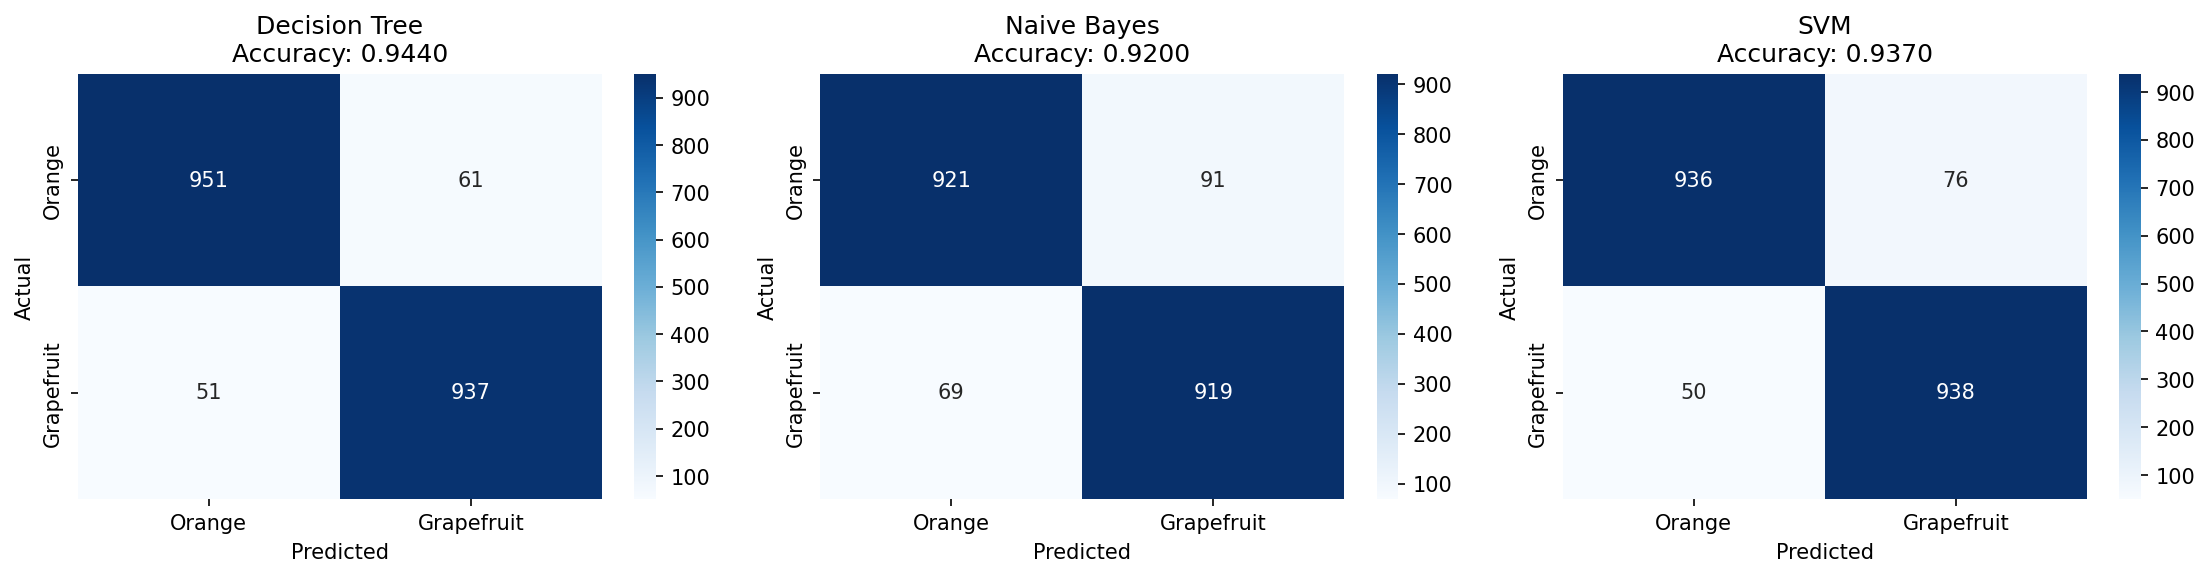
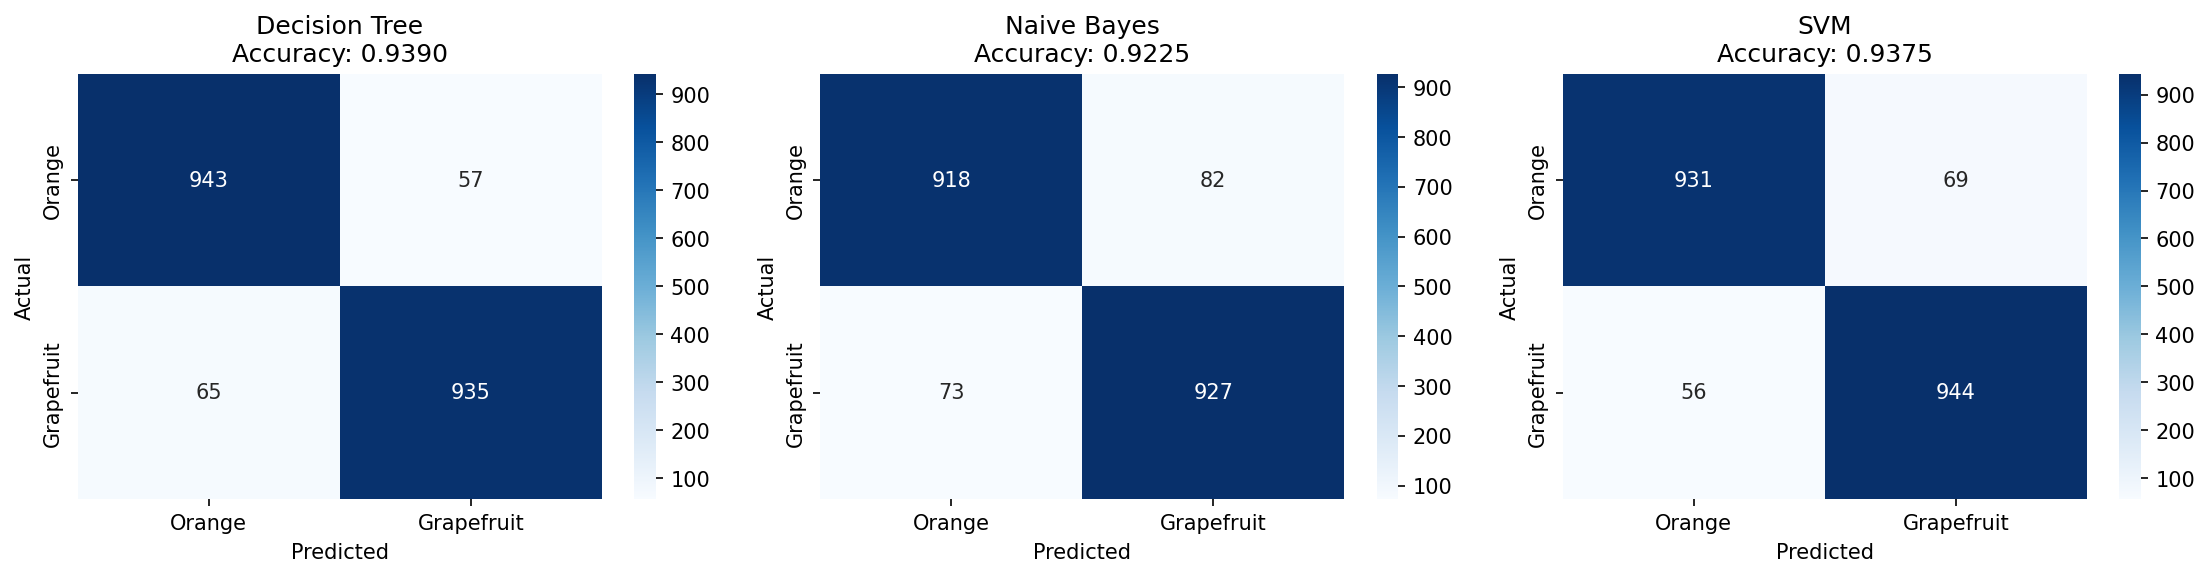
feat: enable stratified train-test splitting and update documentation with revised model performance results

diff --git a/src/data_preprocessing.py b/src/data_preprocessing.py
@@ -84,7 +84,7 @@ def split_and_scale(X, y, test_size=0.2, random_state=42):
         Objek scaler yang sudah di-fit (untuk disimpan/reuse).
     """
     X_train, X_test, y_train, y_test = train_test_split(
-        X, y, test_size=test_size, random_state=random_state
+        X, y, test_size=test_size, random_state=random_state, stratify=y
     )
 
     scaler = StandardScaler()

diff --git a/README.md b/README.md
@@ -2,6 +2,17 @@
 
 Proyek ini membandingkan tiga model klasifikasi machine learning untuk mengidentifikasi buah **Orange** vs **Grapefruit** berdasarkan fitur fisik dan warna.
 
+## 👤 Penulis
+
+| | |
+|---|---|
+| **Nama** | Muhammad Rahardian Baihaqi |
+| **NIM** | 1237050023 |
+| **Mata Kuliah** | Machine Learning |
+| **Tugas** | Ujian Tengah Semester (UTS) |
+
+---
+
 ## 📝 Deskripsi
 
 Dataset `citrus.csv` berisi 10.000 data buah (5.000 orange, 5.000 grapefruit) dengan fitur:
@@ -42,11 +53,16 @@ y = df["name"].map({"orange": 0, "grapefruit": 1})  # Encode label
 #### b. Train-Test Split
 
 ```python
-X_train, X_test, y_train, y_test = train_test_split(X, y, test_size=0.2, random_state=42)
-# Training: 8.000 samples | Testing: 2.000 samples
+X_train, X_test, y_train, y_test = train_test_split(
+    X, y, test_size=0.2, random_state=42, stratify=y
+)
+# Training: 8.000 samples (4.000 orange + 4.000 grapefruit)
+# Testing:  2.000 samples (1.000 orange + 1.000 grapefruit)
 ```
 
-Menggunakan rasio **80:20** dengan `random_state=42` untuk reproducibility.
+Menggunakan rasio **80:20** dengan:
+- `random_state=42` → menjamin **reproducibility** (hasil konsisten setiap dijalankan)
+- `stratify=y` → menjamin **distribusi label proporsional** (50:50) di train dan test set
 
 #### c. Feature Scaling (StandardScaler)
 
@@ -137,17 +153,17 @@ Visualisasi perbandingan performa model:
 
 | Model | Accuracy | Precision | Recall | F1-Score |
 |-------|----------|-----------|--------|----------|
-| **Decision Tree** | **94.40%** 🏆 | 0.94 | 0.94 | 0.94 |
-| SVM | 93.70% | 0.94 | 0.94 | 0.94 |
-| Naive Bayes | 92.00% | 0.92 | 0.92 | 0.92 |
+| **Decision Tree** | **93.90%** 🏆 | 0.94 | 0.94 | 0.94 |
+| SVM | 93.75% | 0.94 | 0.94 | 0.94 |
+| Naive Bayes | 92.25% | 0.92 | 0.92 | 0.92 |
 
 ### Confusion Matrix
 
 | Model | TP (Orange benar) | FP | FN | TN (Grapefruit benar) |
 |-------|---|---|---|---|
-| Decision Tree | 951 | 61 | 51 | 937 |
-| Naive Bayes | 921 | 91 | 69 | 919 |
-| SVM | 936 | 76 | 50 | 938 |
+| Decision Tree | 943 | 57 | 65 | 935 |
+| Naive Bayes | 918 | 82 | 73 | 927 |
+| SVM | 931 | 69 | 56 | 944 |
 
 ### Visualisasi Output
 
@@ -168,15 +184,15 @@ Semua visualisasi tersimpan di folder `results/`:
 
 ## 🏁 Kesimpulan
 
-1. **Decision Tree** menghasilkan akurasi tertinggi (**94.40%**), unggul dalam kemampuan menangkap pola non-linear pada data buah.
+1. **Decision Tree** menghasilkan akurasi tertinggi (**93.90%**), unggul dalam kemampuan menangkap pola non-linear pada data buah.
 
-2. **SVM** menempati posisi kedua (**93.70%**) dengan keunggulan pada recall kelas grapefruit (938 benar vs 937 Decision Tree), menunjukkan SVM lebih sedikit salah mengklasifikasikan grapefruit.
+2. **SVM** menempati posisi kedua (**93.75%**) dengan keunggulan pada recall kelas grapefruit (944 benar vs 935 Decision Tree), menunjukkan SVM lebih sedikit salah mengklasifikasikan grapefruit.
 
-3. **Naive Bayes** memiliki akurasi terendah (**92.00%**) karena asumsi independensi antar fitur tidak sepenuhnya terpenuhi — beberapa fitur (diameter & weight) memiliki korelasi.
+3. **Naive Bayes** memiliki akurasi terendah (**92.25%**) karena asumsi independensi antar fitur tidak sepenuhnya terpenuhi — beberapa fitur (diameter & weight) memiliki korelasi.
 
 4. **Feature terpenting** berdasarkan Decision Tree: `diameter` dan `weight` merupakan pembeda utama antara orange dan grapefruit (grapefruit umumnya lebih besar dan berat).
 
-5. Secara keseluruhan, **ketiga model memiliki performa yang baik (>92%)** berkat dataset yang seimbang dan fitur yang cukup diskriminatif.
+5. Secara keseluruhan, **ketiga model memiliki performa yang baik (>92%)** berkat dataset yang seimbang dan penggunaan **stratified sampling** yang menjamin distribusi label proporsional pada train/test set.
 
 ---
 
